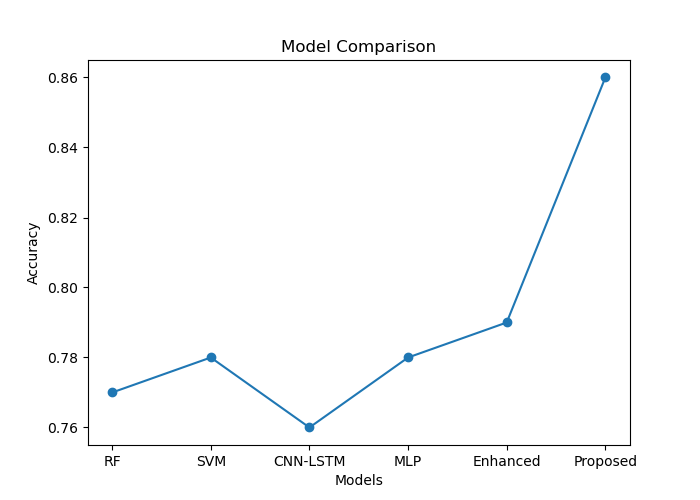
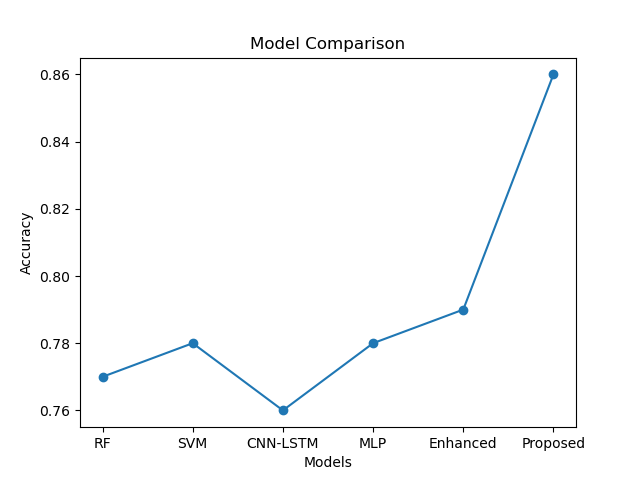
adding plots

diff --git a/src/generate_plots.py b/src/generate_plots.py
@@ -1,0 +1,95 @@
+import matplotlib.pyplot as plt
+import numpy as np
+from sklearn.decomposition import PCA
+
+# =========================
+# 1. Accuracy Comparison
+# =========================
+models = ['RF', 'SVM', 'CNN-LSTM', 'MLP', 'Enhanced', 'Proposed']
+accuracy = [0.77, 0.78, 0.76, 0.78, 0.79, 0.86]
+
+plt.figure()
+plt.plot(models, accuracy, marker='o')
+plt.title("Model Comparison")
+plt.xlabel("Models")
+plt.ylabel("Accuracy")
+plt.savefig("results/accuracy_plot.png")
+plt.close()
+
+
+# =========================
+# 2. Confusion Matrix
+# =========================
+import seaborn as sns
+
+cm = np.array([[9430, 281],
+               [4655, 8178]])
+
+plt.figure()
+sns.heatmap(cm, annot=True, fmt='d', cmap='Blues')
+plt.title("Confusion Matrix")
+plt.xlabel("Predicted")
+plt.ylabel("Actual")
+plt.savefig("results/confusion_matrix.png")
+plt.close()
+
+
+# =========================
+# 3. Training Loss Plot
+# =========================
+loss = [19.7, 8.2, 6.9, 6.3, 5.9, 5.6, 5.8, 5.3, 4.8, 4.7,
+        4.4, 4.5, 4.2, 4.0, 4.2, 4.2, 3.8, 3.6, 3.5, 3.7]
+
+epochs = list(range(1, 21))
+
+plt.figure()
+plt.plot(epochs, loss)
+plt.title("Training Loss vs Epochs")
+plt.xlabel("Epochs")
+plt.ylabel("Loss")
+plt.savefig("results/loss_plot.png")
+plt.close()
+
+
+# =========================
+# 4. Precision / Recall Plot
+# =========================
+metrics = ['Precision', 'Recall', 'F1-score']
+normal = [0.68, 0.97, 0.80]
+attack = [0.97, 0.65, 0.78]
+
+x = np.arange(len(metrics))
+
+plt.figure()
+plt.bar(x - 0.2, normal, width=0.4, label='Normal')
+plt.bar(x + 0.2, attack, width=0.4, label='Attack')
+
+plt.xticks(x, metrics)
+plt.title("Precision, Recall, F1 Comparison")
+plt.legend()
+plt.savefig("results/metrics_plot.png")
+plt.close()
+
+
+# =========================
+# 5. PCA Variance Plot (OPTIONAL)
+# =========================
+try:
+    X_train = np.load("data/X_train.npy")
+
+    pca = PCA()
+    pca.fit(X_train)
+
+    plt.figure()
+    plt.plot(pca.explained_variance_ratio_)
+    plt.title("PCA Explained Variance")
+    plt.xlabel("Components")
+    plt.ylabel("Variance")
+    plt.savefig("results/pca_variance.png")
+    plt.close()
+
+except:
+    print("PCA plot skipped (data not found)")
+
+
+print("All plots saved in results/")